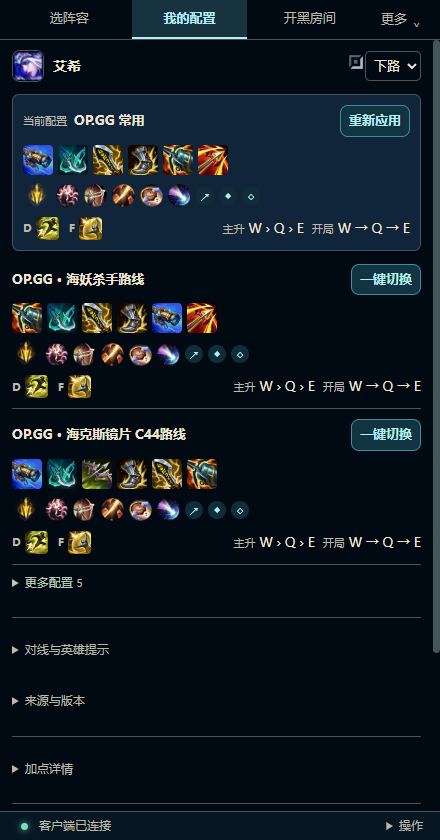
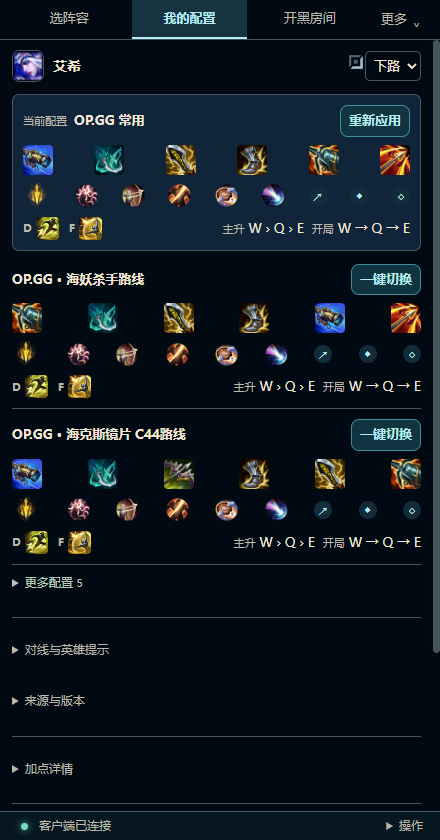
让配置装备和符文随宽度均匀铺开

diff --git a/src/recommendation.css b/src/recommendation.css
@@ -559,10 +559,10 @@ body:has(.recommendation-ui,.recommendation-app) #overlay-root :is(button,input,
 .configuration-choice>header .configuration-stale {color:var(--rb-warning)}
 .configuration-choice>header .btn {flex-shrink:0;min-height:30px;white-space:nowrap;padding:4px 8px;font-size:var(--ui-small)}
 .configuration-icons {display:grid;gap:7px}
-.configuration-equipment {display:flex;gap:5px;list-style:none;margin:0;padding:0;flex-wrap:wrap}
+.configuration-equipment {display:flex;justify-content:space-between;gap:5px;list-style:none;margin:0;padding:0;flex-wrap:wrap}
 .configuration-equipment>li {display:flex}
 .configuration-equipment img {width:30px;height:30px;border-radius:4px}
-.configuration-runes {display:flex;align-items:center;gap:5px;flex-wrap:wrap}
+.configuration-runes {display:flex;align-items:center;justify-content:space-between;gap:3px;flex-wrap:wrap}
 .configuration-runes>span {display:flex;align-items:center;justify-content:center}
 .configuration-runes img {width:23px;height:23px}
 .configuration-runes>span:first-child img {width:28px;height:28px}

diff --git a/docs/releases/v0.55.0.md b/docs/releases/v0.55.0.md
@@ -4,7 +4,7 @@
 
 - 进入选人时按游戏组队人数初始化“我们”，优先同步预选分路。队友选英雄、换位和位置冲突自动让位，推荐人数保持不变；手动点位置圆点才改变人数。
 - 分开预选分路与预选英雄：抢位置留在选阵容页，选英雄则准备整套配置并打开配置页。候选和提议里的可选头像直接预选对应英雄，同时准备该方案的符文、D/F 与商店装备集，没有专用配置时使用默认常用配置。保留闪现键位，锁定由玩家完成。
-- 配置页先显示当前配置和两套备选，整套一键切换；分路下拉框只用于浏览对应配置。装备与符文说明、数值放在悬停中，加点以“主升／开局”区分。已锁英雄不可替换，仍可换位。
+- 配置页先显示当前配置和两套备选，整套一键切换；分路下拉框只用于浏览对应配置。装备与符文图标随窗口宽度均匀分布，说明、数值放在悬停中，加点以“主升／开局”区分。已锁英雄不可替换，仍可换位。
 - 顶部圆角方框铺满可用宽度，“我们”使用右上对角线方向的光点；候选和提议头像与顶部同尺寸，取消重复英雄名和分路文字，详情按需展开。
 - 新增 18 套可保存的配色，包含 9 套客户端灵感配色；设置和开黑房间旁的“更多”都可打开配色面板，主界面与侧栏即时同步。
 - 客户端状态增加可点击圆点：绿色已连接、红色未连接、暖黄色连接中。点击未连接圆点可重新连接，连接中防止重复点击；底栏进一步压低。

diff --git a/README.md b/README.md
@@ -37,7 +37,7 @@
   </tr>
 </table>
 
-配置页先展示当前配置和两套备选，点“一键切换”即可整套切换，不用逐项调整。分路下拉框可浏览其他位置的配置，浏览不写入客户端，点击应用才生效。装备与符文以图标呈现，鼠标悬停再看具体说明、数值和价格；加点以“主升／开局”区分。
+配置页先展示当前配置和两套备选，点“一键切换”即可整套切换，不用逐项调整。分路下拉框可浏览其他位置的配置，浏览不写入客户端，点击应用才生效。装备与符文图标随窗口宽度均匀分布，鼠标悬停再看具体说明、数值和价格；加点以“主升／开局”区分。
 
 ## 同一个游戏组队，自动进同一个助手房间
 
